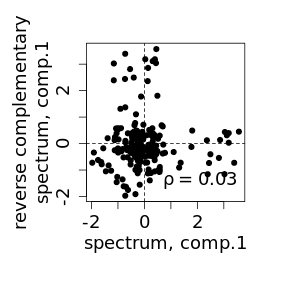
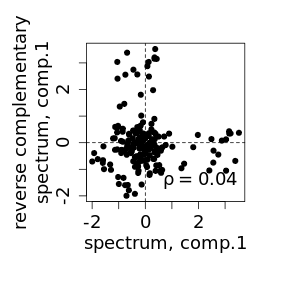
modify vignette

diff --git a/vignettes/inference_processes.md b/vignettes/inference_processes.md
@@ -1,5 +1,4 @@
-#Inference of germline mutational processes
-
+# Inference of germline mutational processes
 
 The vignette describes inference of spatially-varying mutational processes. The guideline starts with matrix of regional mutation rates of mutation types in genomic regions, infers mutational components, estimates their biological relevance and groups in strand-independend/strand-dependent mutational processes. Finally, the guideline provides quality estimates of reconstructed processes using bootstrap and reflection correlations. 
 
@@ -60,12 +59,12 @@ head(icM[,1:4])
 
 |      |     comp.1|     comp.2|     comp.3|     comp.4|
 |:-----|----------:|----------:|----------:|----------:|
-|AAA_C | -0.1518822|  0.1471248|  0.0935838|  1.5667148|
-|AAC_C | -0.2755600| -0.1149889| -0.1862629|  1.7804012|
-|AAG_C | -0.3187923|  1.0127495| -0.1973558|  1.9464271|
-|AAT_C | -0.5558670| -0.3287671| -0.0797052|  0.9466719|
-|CAA_C | -0.0351220| -0.0821468| -0.1965866|  1.2996496|
-|CAC_C |  0.3389197|  0.1762089| -0.2458765| -0.2286360|
+|AAA_C |  0.1561095| -0.0811611|  0.0150918|  0.2402698|
+|AAC_C | -0.0874669| -0.1869301| -0.2633562|  0.0571817|
+|AAG_C |  1.0181631| -0.2543222| -0.2757838|  0.2118468|
+|AAT_C | -0.3327339| -0.5852982| -0.1747418| -0.0527771|
+|CAA_C | -0.0730356|  0.0184412| -0.2400683|  0.2539164|
+|CAC_C |  0.1277553|  0.3380247| -0.2356787|  1.5230192|
 
 Matrix of components intensities:
 
@@ -78,12 +77,12 @@ head(icS[,1:4])
 
 |     comp.1|     comp.2|     comp.3|     comp.4|
 |----------:|----------:|----------:|----------:|
-|  0.1796166|  0.0721438| -0.4479047|  0.1779447|
-|  0.5102889| -0.1320399| -0.1451787|  0.1336934|
-| -0.0918585| -0.0342882| -0.0810809| -0.0979801|
-|  0.0956659|  0.1482672| -0.2599748|  0.1147958|
-|  0.1351631|  0.3616662| -0.3003602|  0.3959587|
-|  0.1522517|  0.0206364| -0.0299601|  0.1796010|
+|  0.0761317|  0.1822939| -0.4542016|  0.0451050|
+| -0.1306416|  0.5153931| -0.1456649|  0.0761229|
+| -0.0335879| -0.0986314| -0.0813891| -0.0086307|
+|  0.1540814|  0.1043745| -0.2628011|  0.1553104|
+|  0.3756479|  0.1449107| -0.3151124|  0.0182006|
+|  0.0235961|  0.1611414| -0.0358629|  0.1210491|
 
 
 Of note, spectra and intensities have negative values due to Z-score transformation of mutation rates in the method. Positive (negative) values in spectra and intensities indicate higher (lower) values compared to genome-wide average.
@@ -143,9 +142,9 @@ head(ref.prop[[1]])
 |comp.1 |asymmetric |2        |
 |comp.2 |asymmetric |1        |
 |comp.3 |symmetric  |3        |
-|comp.4 |symmetric  |4        |
-|comp.5 |symmetric  |5        |
-|comp.6 |asymmetric |7        |
+|comp.4 |asymmetric |5        |
+|comp.5 |asymmetric |4        |
+|comp.6 |symmetric  |6        |
 
 A symmetric mutational component corresponds to a strand-independent mutational process, while a pair of two reflected components corresponds to a single strand-dependent mutational process. Annotation of mutational processes includes components that correspond to it (`comp.X` `comp.Y`):
 
@@ -159,9 +158,9 @@ head(ref.prop[[2]])
 |:---------|:------------------|:-------|:-------|
 |process.1 |strand-dependent   |1       |2       |
 |process.2 |strand-independent |3       |3       |
-|process.3 |strand-independent |4       |4       |
-|process.4 |strand-independent |5       |5       |
-|process.5 |strand-dependent   |6       |7       |
+|process.3 |strand-dependent   |4       |5       |
+|process.4 |strand-independent |6       |6       |
+|process.5 |strand-dependent   |10      |7       |
 |process.6 |strand-independent |8       |8       |
 
 Spectrum visualization of symmetric `comp. 3` with equal rates of complementary mutations: 
